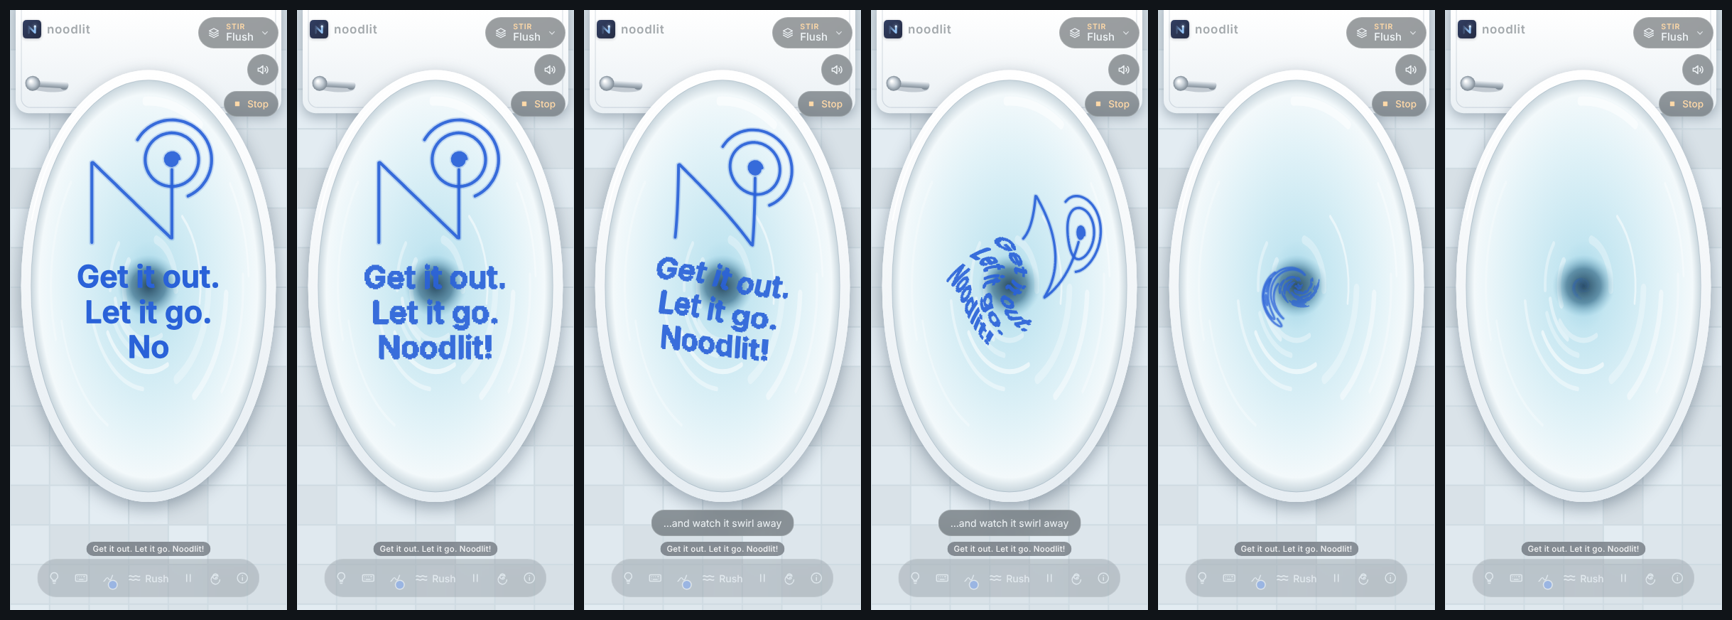
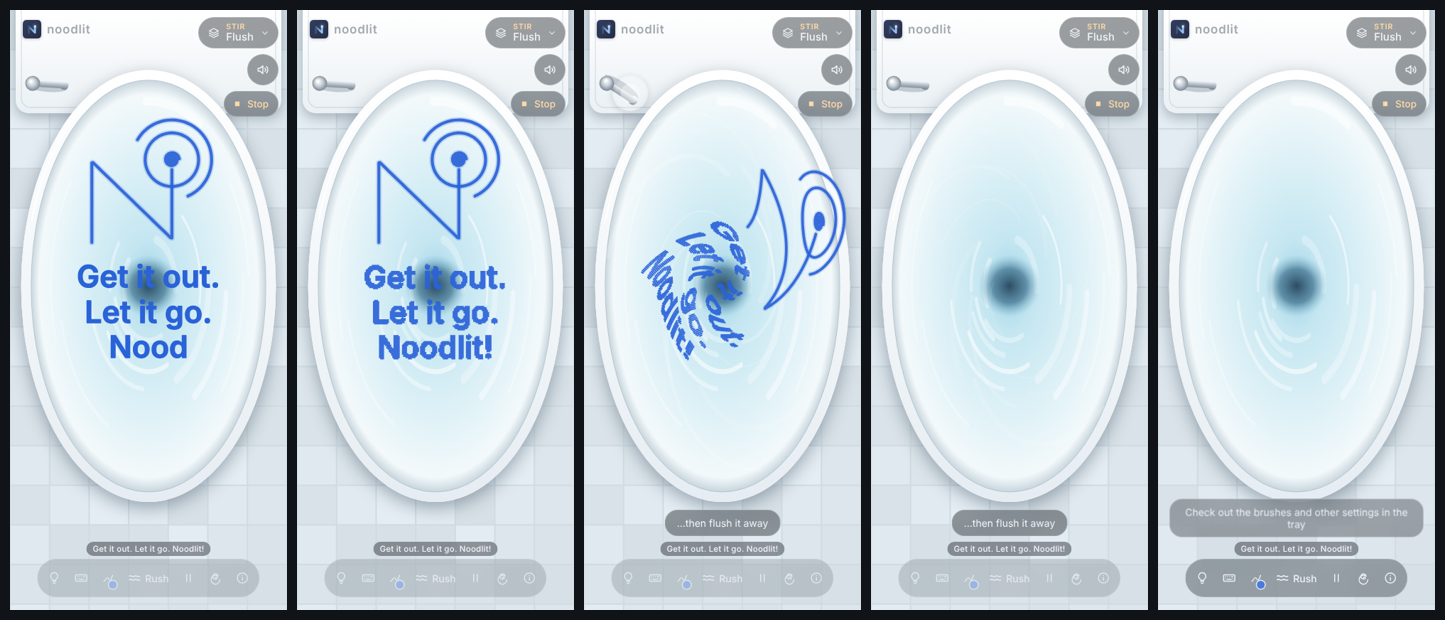
Flush Show me: press the handle right before the swirl
The demo emptied the bowl with a flush at the start, so the handle dipped
long before anything swirled. It now empties quietly, and at the end the
finger presses the handle and the flush takes the drawing away.

Claude-Session: https://claude.ai/code/session_01T4A7rkSVmQXGyUMiDtXF6Q

diff --git a/www/src/demo.js b/www/src/demo.js
@@ -102,7 +102,8 @@ export function createDemo(host, finger) {
       host.wake();
       return;
     }
-    env.clear();
+    // A scene whose clear is a show of its own (Flush) empties quietly here instead.
+    if (env.blank) env.blank(); else env.clear();
     host.wake();
     const t0 = performance.now();
     while (env.clearing && performance.now() - t0 < 2500) {
@@ -291,6 +292,23 @@ export function createDemo(host, finger) {
       env.clear();
       host.wake();
       await sleep(1600, me);
+    } else if (env.handleAt) {
+      // A scene with a handle of its own (Flush): the finger presses it, and away it goes.
+      const { x, y } = env.handleAt();
+      host.say('…then flush it away', 3200);
+      finger.classList.add('glide');
+      showFinger(x, y, false);
+      await sleep(620, me);
+      if (run !== me) return;
+      showFinger(x, y, true);
+      env.setPaused(false);
+      env.clear(); // the handle dips and the swirl starts on the press
+      host.wake();
+      await sleep(220, me);
+      showFinger(x, y, false);
+      await sleep(400, me);
+      finger.classList.remove('show', 'glide');
+      await sleep(2800, me);
     } else {
       if (viaButton) {
         if (!(await tap(host.tour.holdButton, me))) return;

diff --git a/www/src/environments/flush.js b/www/src/environments/flush.js
@@ -68,6 +68,16 @@ class Flush extends StirScene {
     super.strokeStart(id, x, y, info);
   }
 
+  // For Show me: where to press, and a way to empty the bowl without the flush (the demo
+  // saves that for the end).
+  handleAt() { const { pivot, arm } = this.plan; return { x: pivot.x + arm * 0.55, y: pivot.y }; }
+  blank() {
+    this.dropDraft();
+    this.strokes.clear();
+    this.lines = [];
+    this.whirl = 0;
+  }
+
   clear() {
     const had = this.lines.length > 0 && this.whirl <= 0;
     if (performance.now() - this.pressedAt > PRESS * 1000) this.pressedAt = performance.now();
